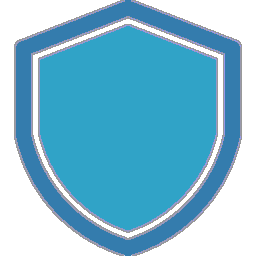
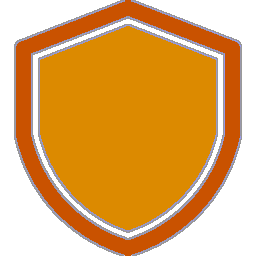
Add Rare Power Card & Add GladiusHistory & DurabilityProtectionManager
- Add Rare Power Card MastersReach(달인의 간격)

diff --git a/GladiusCode/GladiusHistory.cs b/GladiusCode/GladiusHistory.cs
@@ -1,0 +1,54 @@
+using System.Linq;
+using MegaCrit.Sts2.Core.Combat;
+using MegaCrit.Sts2.Core.Combat.History;
+using MegaCrit.Sts2.Core.Entities.Creatures;
+using Gladius;
+using MegaCrit.Sts2.Core.Combat.History.Entries; // DurabilityExtensions가 있는 네임스페이스 (필요 시 수정)
+
+namespace Gladius.GladiusCode.History
+{
+    public static class GladiusHistory
+    {
+        /// <summary>
+        /// 이번 턴에 주체가 사용한 '내구도 카드'의 수를 반환합니다.
+        /// </summary>
+        public static int GetDurableCardsPlayedThisTurn(ICombatState combatState, Creature owner)
+        {
+            if (CombatManager.Instance?.History?.CardPlaysFinished == null) return 0;
+
+            return CombatManager.Instance.History.CardPlaysFinished.Count((CardPlayFinishedEntry e) => 
+                e.HappenedThisTurn(combatState) && 
+                e.CardPlay.Card.GetDurability().isDurable && 
+                e.CardPlay.Card.Owner?.Creature == owner
+            );
+        }
+
+        /// <summary>
+        /// 이번 전투 전체에서 주체가 사용한 '내구도 카드'의 수를 반환합니다.
+        /// </summary>
+        public static int GetDurableCardsPlayedThisCombat(Creature owner)
+        {
+            if (CombatManager.Instance?.History?.CardPlaysFinished == null) return 0;
+
+            // HappensThisTurn 검사를 제외하면 이번 전투 전체의 카운트가 됩니다.
+            return CombatManager.Instance.History.CardPlaysFinished.Count((CardPlayFinishedEntry e) => 
+                e.CardPlay.Card.GetDurability().isDurable && 
+                e.CardPlay.Card.Owner?.Creature == owner
+            );
+        }
+
+        /// <summary>
+        /// 참고용: 이번 턴에 사용한 '연성물(Artifact/Material)' 카드의 수도 필요하다면 이렇게 만들 수 있습니다.
+        /// </summary>
+        public static int GetArtifactCardsPlayedThisTurn(ICombatState combatState, Creature owner)
+        {
+            if (CombatManager.Instance?.History?.CardPlaysFinished == null) return 0;
+
+            return CombatManager.Instance.History.CardPlaysFinished.Count((CardPlayFinishedEntry e) => 
+                e.HappenedThisTurn(combatState) && 
+                (e.CardPlay.Card.Keywords.Contains(GladiusKeywords.Artifact) || e.CardPlay.Card.Keywords.Contains(GladiusKeywords.Material)) && 
+                e.CardPlay.Card.Owner?.Creature == owner
+            );
+        }
+    }
+}

diff --git a/GladiusCode/DurabilityProtectionManager.cs b/GladiusCode/DurabilityProtectionManager.cs
@@ -1,0 +1,51 @@
+using System.Collections.Generic;
+using System.Runtime.CompilerServices;
+using MegaCrit.Sts2.Core.Entities.Creatures;
+
+namespace Gladius
+{
+    // 내구도를 보호하는 기능이 있는 모든 파워가 가져야 할 공통 인터페이스
+    public interface IDurabilityProtector
+    {
+        // 현재 이 파워가 내구도를 보호할 수 있는 상태인가? (스택이 남아있는가 등)
+        bool IsProtectionActive();
+    }
+
+    public static class DurabilityProtectionManager
+    {
+        // 특정 파워 클래스가 아니라, IDurabilityProtector를 상속받은 '모든 보호 파워들의 리스트'를 저장하도록 변경
+        private static readonly ConditionalWeakTable<Creature, List<IDurabilityProtector>> ProtectionMap = new();
+
+        public static void Register(Creature creature, IDurabilityProtector power)
+        {
+            if (creature == null) return;
+            if (!ProtectionMap.TryGetValue(creature, out var list))
+            {
+                list = new List<IDurabilityProtector>();
+                ProtectionMap.Add(creature, list);
+            }
+            if (!list.Contains(power)) list.Add(power);
+        }
+
+        public static void Unregister(Creature creature, IDurabilityProtector power)
+        {
+            if (creature != null && ProtectionMap.TryGetValue(creature, out var list))
+            {
+                list.Remove(power);
+            }
+        }
+
+        public static bool IsProtected(Creature creature)
+        {
+            if (creature == null || !ProtectionMap.TryGetValue(creature, out var list)) return false;
+            
+            // 캐릭터가 가진 전체 파워가 아니라, '보호 파워 리스트(기껏해야 1~2개)'만 순회하므로 여전히 매우 빠릅니다.
+            foreach (var power in list)
+            {
+                // 단 하나라도 활성화된 보호 파워가 있다면 보호됨(true)
+                if (power.IsProtectionActive()) return true;
+            }
+            return false;
+        }
+    }
+}

diff --git a/GladiusCode/Cards/Rare/Power/MastersReach.cs b/GladiusCode/Cards/Rare/Power/MastersReach.cs
@@ -1,0 +1,34 @@
+using Gladius.GladiusCode.Character;
+using Gladius.GladiusCode.Cards;
+using MegaCrit.Sts2.Core.GameActions.Multiplayer;
+using MegaCrit.Sts2.Core.Entities.Cards;
+using BaseLib.Utils;
+using MegaCrit.Sts2.Core.HoverTips;
+using MegaCrit.Sts2.Core.Commands;
+using MegaCrit.Sts2.Core.Localization.DynamicVars;
+using Gladius.GladiusCode;
+
+namespace Gladius;
+
+[Pool(typeof(GladiusCardPool))]
+public class MastersReach() : GladiusCard(2, CardType.Power, CardRarity.Uncommon, TargetType.Self)
+{
+    // 달인의 간격
+    protected override IEnumerable<DynamicVar> CanonicalVars => 
+        [new PowerVar<MastersReachPower>(1)];
+
+    protected override IEnumerable<IHoverTip> ExtraHoverTips =>
+        [HoverTipFactory.FromKeyword(GladiusKeywords.Durability)];
+
+    protected override async Task OnPlay(PlayerChoiceContext choiceContext, CardPlay cardPlay)
+    {
+        // 파워 획득
+		await CreatureCmd.TriggerAnim(Owner.Creature, "Cast", Owner.Character.CastAnimDelay);
+		await PowerCmd.Apply<MastersReachPower>(choiceContext, Owner.Creature, DynamicVars["MastersReachPower"].BaseValue, Owner.Creature, this);
+    }
+
+    protected override void OnUpgrade()
+    {
+        EnergyCost.UpgradeBy(-1);
+    }
+}

diff --git a/GladiusCode/GladiusPatch.cs b/GladiusCode/GladiusPatch.cs
@@ -51,14 +51,7 @@ namespace Gladius.GladiusCode.Patches
                 bool isProtected = false;
                 if (!__instance.Model!.IsCanonical && cardModel.Owner?.Creature?.Powers != null)
                 {
-                    foreach (PowerModel powerModel in cardModel.Owner.Creature.Powers)
-                    {
-                        if (powerModel is PreserveDurabilityPower power && power.Amount > 0)
-                        {
-                            isProtected = true;
-                            break;
-                        }
-                    }
+                    isProtected = DurabilityProtectionManager.IsProtected(cardModel.Owner.Creature);
                 }
 
                 TextureRect? durIcon = cardContainer.GetNodeOrNull<TextureRect>("DurabilityIcon");
@@ -213,15 +206,9 @@ namespace Gladius.GladiusCode.Patches
                 bool isProtected = false;
 
                 // 보유한 내구도 감소 무효 파워 확인
-                foreach (PowerModel powerModel in __instance.Owner.Creature.Powers)
+                if (__instance.Owner?.Creature != null)
                 {
-                    // 무효하는 파워가 하나라도 있다면 내구도 감소 불가능 체크 후 반복문 종료
-                    if (powerModel is PreserveDurabilityPower power && power.Amount > 0/* ||
-                    powerModel is */)
-                    {
-                        isProtected = true;
-                        break;
-                    }
+                    isProtected = DurabilityProtectionManager.IsProtected(__instance.Owner.Creature);
                 }
 
                 // 최종적으로 내구도 감소 체크 후 내구도 감소